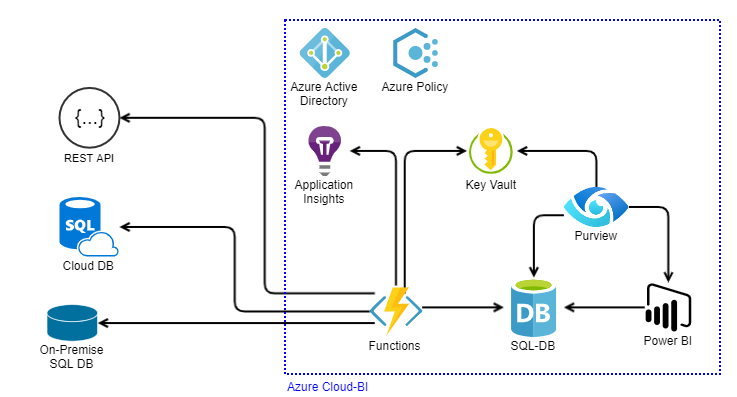
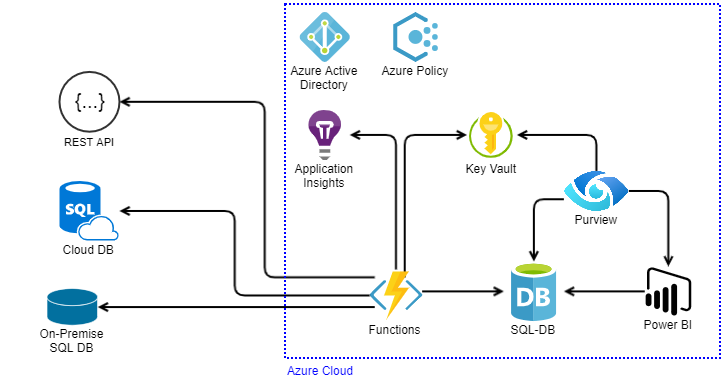
Update

diff --git a/chapters/chapter04/chap04_2.tex b/chapters/chapter04/chap04_2.tex
@@ -59,3 +59,10 @@ die Managed Identity von \textit{Azure Functions} bekommt für den ETL-Prozess L
 
 % ================================================================================
 \subsubsection{Vollständige Infrastruktur} \label{subsec:infra:konfig:VollständigeInfrastruktur}
+
+ \begin{figure}[htbp]
+ \centering
+ \includegraphics[width=\textwidth]{gfx/cloudbiinfra.png}
+ \caption{Vollständige Infrastruktur der bereitgestellten Cloud BI}
+\label{fig:chap04_VollständigeInfrastruktur}
+\end{figure}
